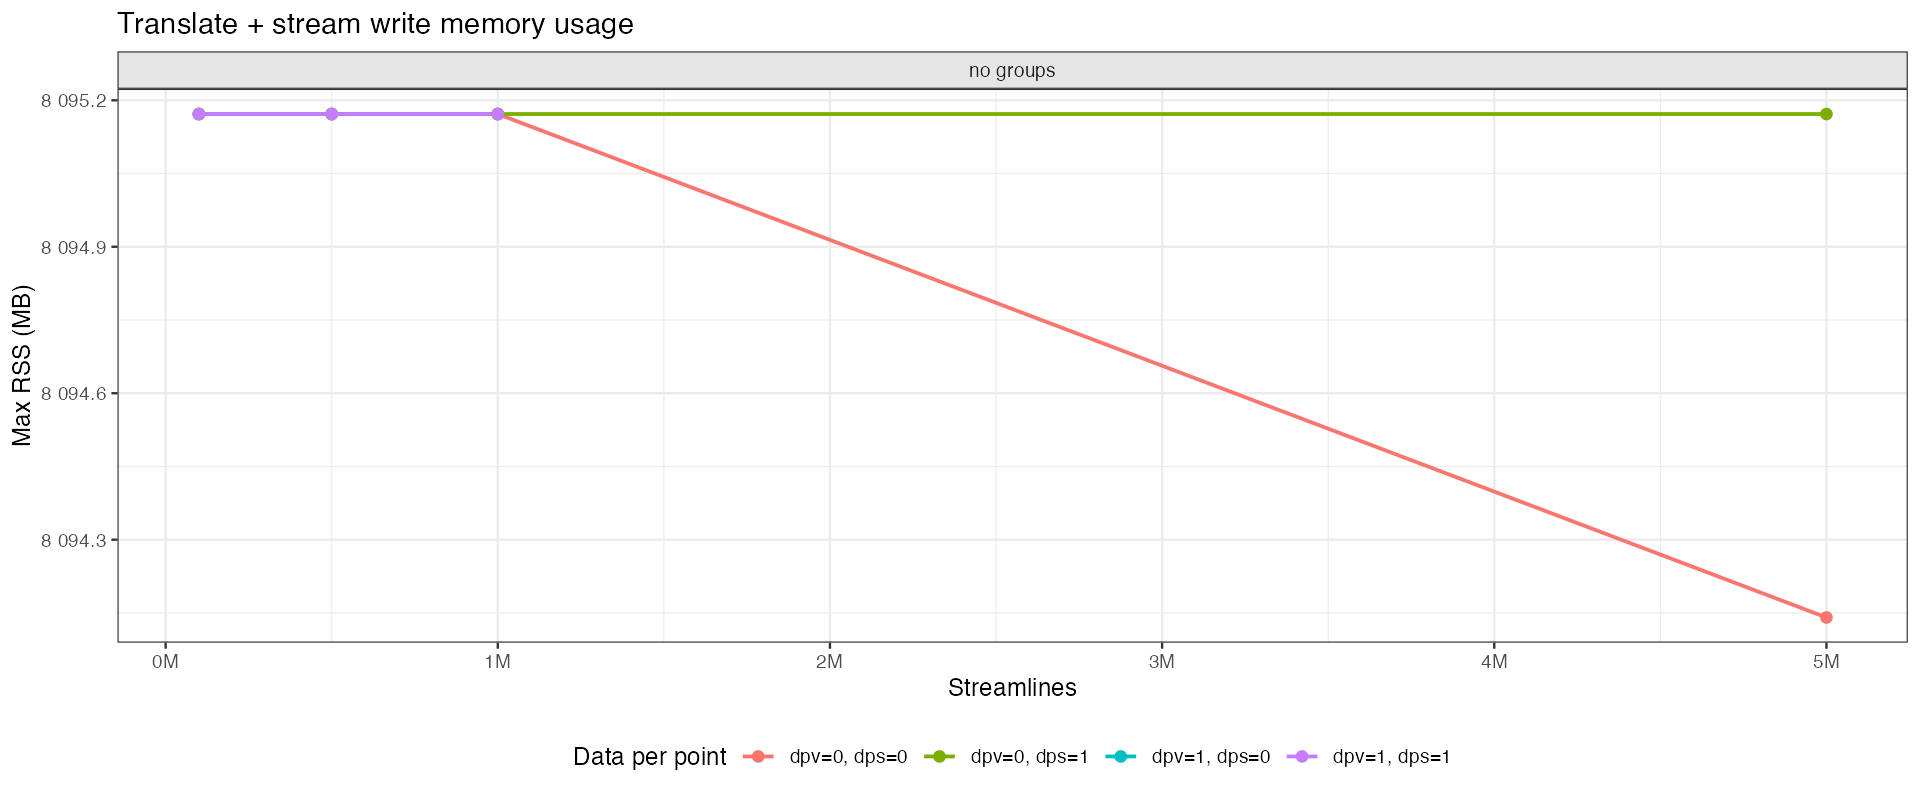
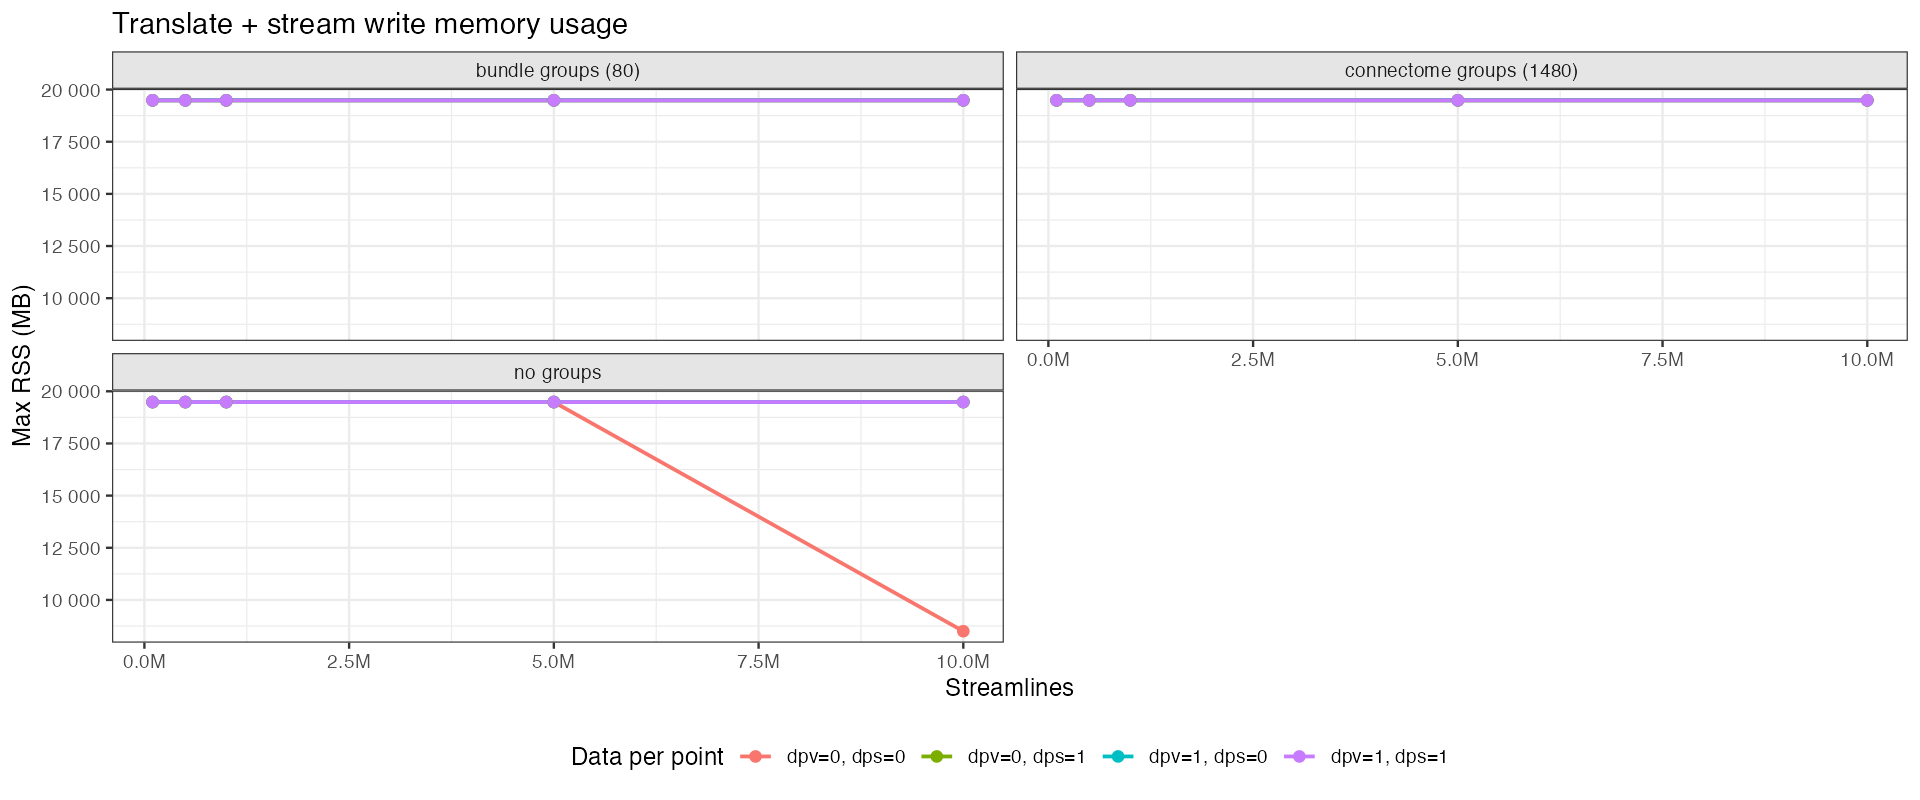
fill out benchmarks

diff --git a/bench/bench_trx_realdata.cpp b/bench/bench_trx_realdata.cpp
@@ -35,6 +35,8 @@ namespace {
 using Eigen::half;
 
 std::string g_reference_trx_path;
+bool g_reference_has_dpv = false;
+size_t g_reference_streamline_count = 0;
 
 constexpr float kMinLengthMm = 20.0f;
 constexpr float kMaxLengthMm = 500.0f;
@@ -554,6 +556,48 @@ struct TrxOnDisk {
   size_t shard_processes = 1;
 };
 
+// Parse the per-element column count and byte size encoded in a TRX filename.
+// TRX convention: <name>.<ncols>.<dtype> or <name>.<dtype>
+// e.g. "positions.3.float16" -> {3, 2}, "sift_weights.float32" -> {1, 4}
+static std::pair<size_t, size_t> parse_trx_array_dims(const std::string &filename) {
+  std::vector<std::string> parts;
+  std::istringstream ss(filename);
+  std::string tok;
+  while (std::getline(ss, tok, '.')) {
+    if (!tok.empty()) parts.push_back(tok);
+  }
+  if (parts.size() < 2) return {1, 4};
+  const std::string dtype_str = parts.back();
+  const size_t elem_size = static_cast<size_t>(trx::detail::_sizeof_dtype(dtype_str));
+  if (parts.size() >= 3) {
+    const std::string &maybe_ncols = parts[parts.size() - 2];
+    if (!maybe_ncols.empty() &&
+        std::all_of(maybe_ncols.begin(), maybe_ncols.end(), [](unsigned char c) { return std::isdigit(c); })) {
+      return {static_cast<size_t>(std::stoul(maybe_ncols)), elem_size};
+    }
+  }
+  return {1, elem_size};
+}
+
+#if defined(__unix__) || defined(__APPLE__)
+static void truncate_file_to(const std::string &path, off_t byte_size) {
+  if (::truncate(path.c_str(), byte_size) != 0) {
+    throw std::runtime_error("truncate " + path + ": " + std::strerror(errno));
+  }
+}
+#endif
+
+// Truncate every regular file in dir to row_count rows based on the per-file dtype/ncols.
+static void truncate_array_dir(const std::string &dir_path, size_t row_count) {
+  std::error_code ec;
+  if (!trx::fs::exists(dir_path, ec)) return;
+  for (const auto &entry : trx::fs::directory_iterator(dir_path, ec)) {
+    if (ec || !entry.is_regular_file()) continue;
+    const auto [ncols, elem_size] = parse_trx_array_dims(entry.path().filename().string());
+    truncate_file_to(entry.path().string(), static_cast<off_t>(row_count * ncols * elem_size));
+  }
+}
+
 TrxOnDisk build_trx_file_on_disk_single(size_t streamlines,
                                         GroupScenario scenario,
                                         bool add_dps,
@@ -562,66 +606,144 @@ TrxOnDisk build_trx_file_on_disk_single(size_t streamlines,
                                         const std::string &out_path_override = "") {
   const size_t progress_every = parse_env_size("TRX_BENCH_LOG_PROGRESS_EVERY", 0);
 
-  // Fast path: For 10M (full reference) WITHOUT DPV, just copy and add groups
-  // DPV requires 1.3B vertices × 8 bytes (vector + internal copy) = 10 GB extra memory!
   if (g_reference_trx_path.empty()) {
     throw std::runtime_error("Reference TRX path not set.");
   }
-  auto ref_trx_check = trx::load<half>(g_reference_trx_path);
-  const size_t ref_count = ref_trx_check->num_streamlines();
-  const bool is_full_reference = (streamlines == ref_count);
-  ref_trx_check.reset();  // Release mmap
-  
-  // Fast path for full reference WITHOUT DPV: work with reference directly
-  // DPV + 10M requires 40-50 GB due to: mmap(7.6) + dpv_vec(4.8) + dpv_mmap(4.8) + save() overhead(20+)
-  if (is_full_reference && !add_dpv) {
-    log_bench_start("build_trx_copy_fast", "streamlines=" + std::to_string(streamlines));
-    
-    // Filesystem copy reference (disk I/O only)
-    const std::string temp_copy = make_temp_path("trx_ref_copy");
-    std::error_code copy_ec;
-    std::filesystem::copy_file(g_reference_trx_path, temp_copy,
-                              std::filesystem::copy_options::overwrite_existing, copy_ec);
-    if (copy_ec) {
-      throw std::runtime_error("Failed to copy reference: " + copy_ec.message());
+  const bool is_full_reference = (streamlines == g_reference_streamline_count);
+
+  // Fast path: load the reference (extracts to a fresh unique temp dir each call), optionally
+  // ftruncate the positions/offsets/dps files to a prefix boundary in O(1), then assign
+  // groups and save. Avoids the large intermediate positions write from subset_streamlines().
+  //
+  // Used whenever dpv isn't needed, or when the full reference already has dpv (preserved
+  // through the copy without any vector allocation).
+  // Falls back to build_prefix_subset_trx only for synthetic-dpv at small sizes.
+  if (!add_dpv || (is_full_reference && g_reference_has_dpv)) {
+    log_bench_start("build_trx_prefix_fast", "streamlines=" + std::to_string(streamlines));
+
+    // Load reference into a fresh temp dir; each call gets its own unique extraction.
+    auto ref = trx::load<half>(g_reference_trx_path);
+    const std::string temp_dir = ref->_uncompressed_folder_handle;
+
+    // Locate positions and offsets files while the mmap is still open.
+    std::string pos_path, off_path;
+    {
+      std::error_code ec;
+      for (const auto &entry : trx::fs::directory_iterator(temp_dir, ec)) {
+        if (ec) break;
+        const std::string fn = entry.path().filename().string();
+        if (fn.rfind("positions", 0) == 0) pos_path = entry.path().string();
+        else if (fn.rfind("offsets", 0) == 0) off_path = entry.path().string();
+      }
     }
-    
-    // Load and modify (just groups, no DPV)
-    auto trx = trx::load<half>(temp_copy);
-    
-    // Add groups
+    if (pos_path.empty() || off_path.empty()) {
+      throw std::runtime_error("positions/offsets not found in " + temp_dir);
+    }
+
+    // Read vertex_cutoff directly from the offsets file so the dtype (uint32 vs uint64)
+    // is always respected, regardless of how the Eigen map interprets the mmap width.
+    const auto [off_ncols, off_elem] =
+        parse_trx_array_dims(trx::fs::path(off_path).filename().string());
+    size_t vertex_cutoff = 0;
+    {
+      std::ifstream ofs(off_path, std::ios::binary);
+      ofs.seekg(static_cast<std::streamoff>(streamlines * off_ncols * off_elem));
+      if (off_elem == 4) {
+        uint32_t v = 0;
+        ofs.read(reinterpret_cast<char *>(&v), 4);
+        vertex_cutoff = static_cast<size_t>(v);
+      } else {
+        uint64_t v = 0;
+        ofs.read(reinterpret_cast<char *>(&v), 8);
+        vertex_cutoff = static_cast<size_t>(v);
+      }
+    }
+
+    // Release mmaps without deleting temp_dir — we own it from here.
+    ref->_owns_uncompressed_folder = false;
+    ref.reset();
+
+    if (!is_full_reference) {
+      // Truncate positions and offsets to the prefix boundary.
+      const auto [pos_ncols, pos_elem] =
+          parse_trx_array_dims(trx::fs::path(pos_path).filename().string());
+      truncate_file_to(pos_path, static_cast<off_t>(vertex_cutoff * pos_ncols * pos_elem));
+      truncate_file_to(off_path, static_cast<off_t>((streamlines + 1) * off_ncols * off_elem));
+
+      // Truncate DPS arrays to the prefix streamline count.
+      truncate_array_dir(temp_dir + trx::SEPARATOR + "dps", streamlines);
+
+      // DPV is absent at this point (condition above guarantees !add_dpv for non-full ref).
+      std::error_code ec2;
+      std::filesystem::remove_all(trx::fs::path(temp_dir) / "dpv", ec2);
+
+      // Patch NB_STREAMLINES and NB_VERTICES in header.json.
+      const std::string header_path = temp_dir + trx::SEPARATOR + "header.json";
+      {
+        std::ifstream in(header_path);
+        std::string raw((std::istreambuf_iterator<char>(in)), {});
+        std::string parse_err;
+        json hdr = json::parse(raw, parse_err);
+        if (!parse_err.empty()) throw std::runtime_error("header.json parse error: " + parse_err);
+        hdr = trx::_json_set(hdr, "NB_STREAMLINES", static_cast<int>(streamlines));
+        hdr = trx::_json_set(hdr, "NB_VERTICES", static_cast<int>(vertex_cutoff));
+        std::ofstream out(header_path, std::ios::trunc);
+        out << hdr.dump();
+      }
+    }
+
+    // Strip DPS if not wanted (applies to both full and prefix).
+    if (!add_dps) {
+      std::error_code ec;
+      std::filesystem::remove_all(trx::fs::path(temp_dir) / "dps", ec);
+    }
+
+    // Clear any groups the reference may carry; the benchmark owns grouping.
+    {
+      std::error_code ec;
+      std::filesystem::remove_all(trx::fs::path(temp_dir) / "groups", ec);
+    }
+
+    auto trx = trx::TrxFile<half>::load_from_directory(temp_dir);
+
+    // Add synthetic DPS if requested but the reference didn't have it.
+    if (add_dps && trx->data_per_streamline.empty()) {
+      std::vector<float> ones(streamlines, 1.0f);
+      trx->add_dps_from_vector("sift_weights", "float32", ones);
+    }
+
     assign_groups_to_trx(*trx, scenario, streamlines);
-    
-    // Note: DPV for 10M handled by sampling path (skipped by default due to 40-50 GB memory)
-    
-    // Save to output
-    const std::string out_path = out_path_override.empty() ? make_temp_path("trx_input") : out_path_override;
+
+    const std::string out_path =
+        out_path_override.empty() ? make_temp_path("trx_input") : out_path_override;
     trx::TrxSaveOptions save_opts;
     save_opts.compression_standard = compression;
     trx->save(out_path, save_opts);
     const size_t total_vertices = trx->num_vertices();
     trx->close();
-    
-    std::filesystem::remove(temp_copy, copy_ec);
-    
+    trx::rm_dir(temp_dir);
+
     if (out_path_override.empty()) {
       register_cleanup(out_path);
     }
-    
-    log_bench_end("build_trx_copy_fast", "streamlines=" + std::to_string(streamlines));
+
+    log_bench_end("build_trx_prefix_fast", "streamlines=" + std::to_string(streamlines));
     return {out_path, streamlines, total_vertices, 0.0, 1};
   }
-  
-  // Prefix-subset path: copy first N streamlines into a TrxFile and save.
+
+  // Fallback: prefix-subset path for synthetic dpv at smaller streamline counts.
   auto trx_subset = build_prefix_subset_trx(streamlines, scenario, add_dps, add_dpv);
   const size_t total_vertices = trx_subset->num_vertices();
-  const std::string out_path = out_path_override.empty() ? make_temp_path("trx_input") : out_path_override;
+  const std::string out_path =
+      out_path_override.empty() ? make_temp_path("trx_input") : out_path_override;
   trx::TrxSaveOptions save_opts;
   save_opts.compression_standard = compression;
   trx_subset->save(out_path, save_opts);
   trx_subset->close();
-  if (progress_every > 0 && (parse_env_bool("TRX_BENCH_CHILD_LOG", false) || parse_env_bool("TRX_BENCH_LOG", false))) {
-    std::cerr << "[trx-bench] progress build_trx streamlines=" << streamlines << " / " << streamlines << std::endl;
+  if (progress_every > 0 &&
+      (parse_env_bool("TRX_BENCH_CHILD_LOG", false) || parse_env_bool("TRX_BENCH_LOG", false))) {
+    std::cerr << "[trx-bench] progress build_trx streamlines=" << streamlines << " / "
+              << streamlines << std::endl;
   }
   if (out_path_override.empty()) {
     register_cleanup(out_path);
@@ -732,17 +854,17 @@ static void BM_TrxFileSize_Float16(benchmark::State &state) {
   const auto compression = use_zip ? ZIP_CM_DEFLATE : ZIP_CM_STORE;
   const size_t skip_zip_at = parse_env_size("TRX_BENCH_SKIP_ZIP_AT", 5000000);
   const size_t skip_dpv_at = parse_env_size("TRX_BENCH_SKIP_DPV_AT", 10000000);
-  const size_t skip_connectome_at = parse_env_size("TRX_BENCH_SKIP_CONNECTOME_AT", 5000000);
   if (use_zip && streamlines >= skip_zip_at) {
     state.SkipWithMessage("zip compression skipped for large streamlines");
     return;
   }
-  if (add_dpv && streamlines >= skip_dpv_at) {
+  // Skip synthetic dpv at high streamline counts due to memory cost (~40-50 GB).
+  // Exception: if the reference already has dpv and this is the full-reference count, the
+  // fast path handles it via ftruncate without allocating a dpv vector.
+  const bool fast_path_covers_dpv =
+      (streamlines == g_reference_streamline_count && g_reference_has_dpv);
+  if (add_dpv && streamlines >= skip_dpv_at && !fast_path_covers_dpv) {
     state.SkipWithMessage("dpv skipped: requires 40-50 GB memory (set TRX_BENCH_SKIP_DPV_AT=0 to force)");
-    return;
-  }
-  if (scenario == GroupScenario::Connectome && streamlines >= skip_connectome_at) {
-    state.SkipWithMessage("connectome groups skipped for large streamlines (set TRX_BENCH_SKIP_CONNECTOME_AT=0 to force)");
     return;
   }
   log_bench_start("BM_TrxFileSize_Float16",
@@ -1104,6 +1226,16 @@ int main(int argc, char **argv) {
   // Set global reference path
   g_reference_trx_path = reference_trx;
   std::cerr << "[trx-bench] Using reference TRX: " << g_reference_trx_path << std::endl;
+
+  // Pre-inspect reference to avoid repeated loads and to inform skip decisions
+  {
+    auto ref = trx::load<half>(g_reference_trx_path);
+    g_reference_streamline_count = ref->num_streamlines();
+    g_reference_has_dpv = !ref->data_per_vertex.empty();
+    ref->close();
+    std::cerr << "[trx-bench] Reference: " << g_reference_streamline_count
+              << " streamlines, dpv=" << (g_reference_has_dpv ? "yes" : "no") << std::endl;
+  }
   
   // Enable verbose logging if requested
   if (verbose) {
